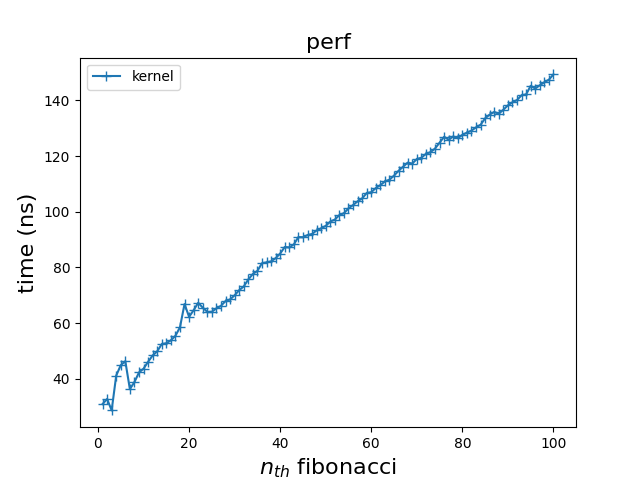
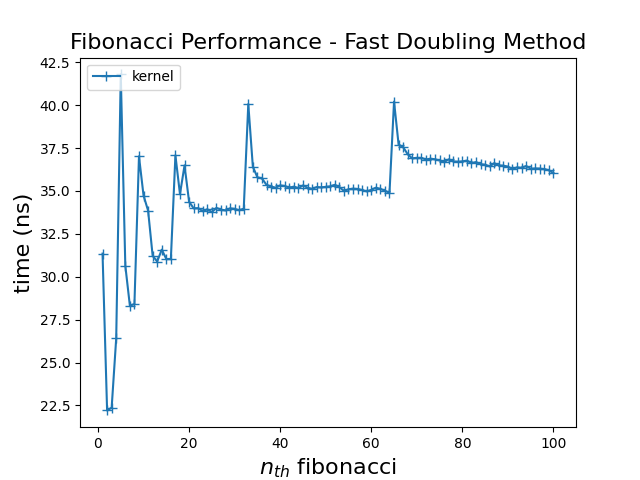
Add a script to set "scaling_governor" This script will keep all the cores in CPU in highest frequence, then we can make the benchmark in the same environment.

diff --git a/scripts/driver.py b/scripts/driver.py
@@ -4,24 +4,25 @@ import subprocess
 import numpy as np
 import matplotlib.pyplot as plt
 
-runs = 500
+runs = 5000
 
 
 def data_processing(data_set, n):
     list = []
     for i in range(100):
         data_set[0][i].sort()
-        for j in range(1, 7):
+        check = round(runs*0.03)
+        for j in range(1, check):
             data_set[0][i][j] = 0
             data_set[0][i][n - j] = 0
-        list.append(sum(data_set[0][i]) / len(data_set[0][i]-6))
+        list.append(sum(data_set[0][i]) / len(data_set[0][i]-check))
     return list
 
 if __name__ == "__main__":
     Ys = []
     comp_porc = subprocess.run('cd ..', shell = True)
     for i in range(runs):
-        comp_porc = subprocess.run('sudo taskset 0xb ./client', shell = True)
+        comp_porc = subprocess.run('sudo taskset 0x1 ./client', shell = True)
     output = np.loadtxt('data.txt', dtype = 'float').T
     Ys.append(output)
     # print(Ys[0][3])
@@ -29,7 +30,7 @@ if __name__ == "__main__":
     X = list(range(1, 101))
 
     fig, ax = plt.subplots(1, 1, sharey = True)
-    ax.set_title('perf', fontsize = 16)
+    ax.set_title('Fibonacci Performance - Fast Doubling Method', fontsize = 16)
     ax.set_xlabel(r'$n_{th}$ fibonacci', fontsize = 16)
     ax.set_ylabel('time (ns)', fontsize = 16)
     ax.plot(X, Y, marker = '+', markersize = 7, label = 'kernel')
